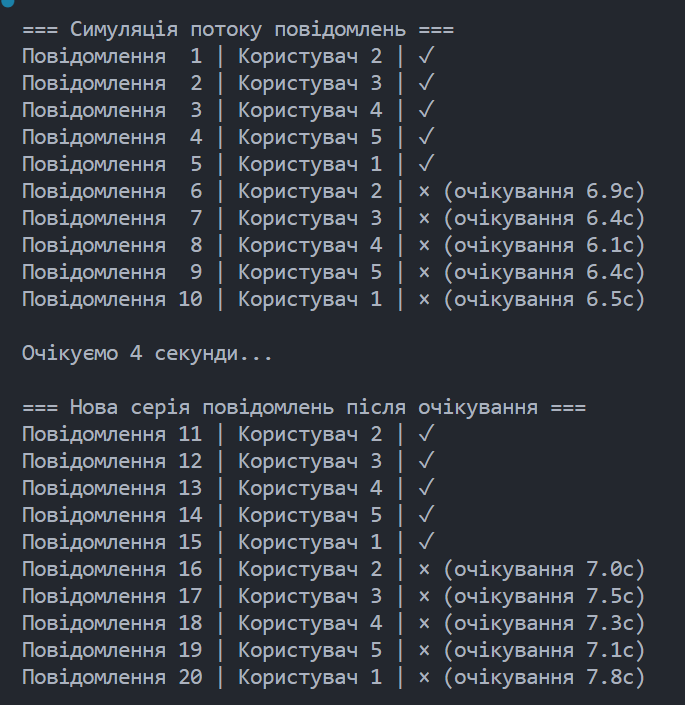
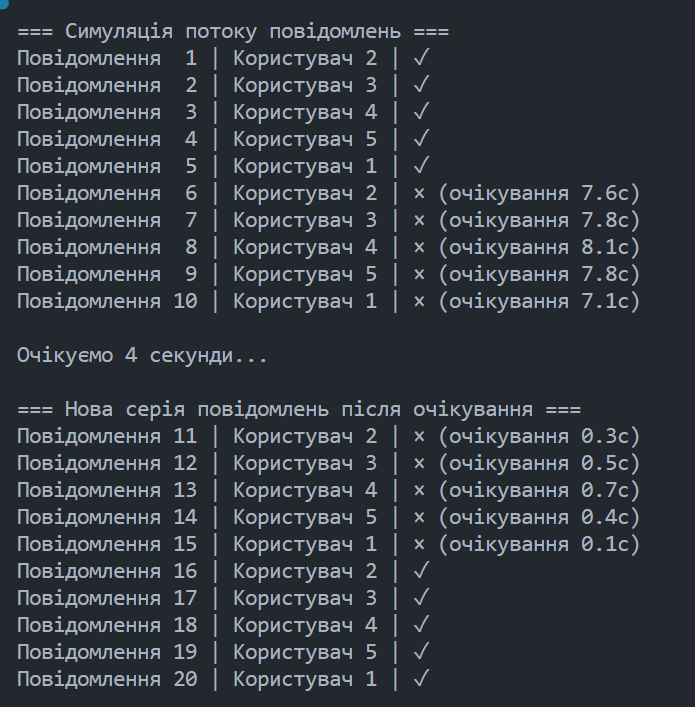
upd1

diff --git a/part1.py b/part1.py
@@ -7,57 +7,54 @@ class SlidingWindowRateLimiter:
     def __init__(self, window_size: int = 10, max_requests: int = 1):
         self.window_size = window_size
         self.max_requests = max_requests
-        self.user_messages: Dict[str, deque] = {}
-    
+        self.user_requests: Dict[str, deque] = {}
+
     def _cleanup_window(self, user_id: str, current_time: float) -> None:
-        """Видаляє старі записи з черги, які вийшли за межі вікна."""
-        if user_id in self.user_messages:
-            while self.user_messages[user_id] and self.user_messages[user_id][0] <= current_time - self.window_size:
-                self.user_messages[user_id].popleft()
+        """Видаляє застарілі запити з вікна"""
+        if user_id in self.user_requests:
+            while self.user_requests[user_id] and self.user_requests[user_id][0] <= current_time - self.window_size:
+                self.user_requests[user_id].popleft()
+
+            if not self.user_requests[user_id]:  # Якщо черга порожня, видаляємо користувача
+                del self.user_requests[user_id]
 
     def can_send_message(self, user_id: str) -> bool:
-        """Перевіряє, чи може користувач надіслати повідомлення."""
+        """Перевіряє, чи може користувач надіслати повідомлення"""
         current_time = time.time()
         self._cleanup_window(user_id, current_time)
-        return len(self.user_messages.get(user_id, [])) < self.max_requests
-    
+        return len(self.user_requests.get(user_id, [])) < self.max_requests
+
     def record_message(self, user_id: str) -> bool:
-        """Записує повідомлення користувача, якщо це дозволено."""
+        """Записує повідомлення користувача, якщо воно дозволене"""
         if self.can_send_message(user_id):
-            if user_id not in self.user_messages:
-                self.user_messages[user_id] = deque()
-            self.user_messages[user_id].append(time.time())
+            if user_id not in self.user_requests:
+                self.user_requests[user_id] = deque()
+            
+            self.user_requests[user_id].append(time.time())
             return True
         return False
-    
+
     def time_until_next_allowed(self, user_id: str) -> float:
-        """Розраховує час, що залишився до можливості відправити наступне повідомлення."""
-        current_time = time.time()
-        self._cleanup_window(user_id, current_time)
-        if user_id not in self.user_messages or not self.user_messages[user_id]:
+        """Обчислює час до можливості відправлення наступного повідомлення"""
+        if user_id not in self.user_requests or not self.user_requests[user_id]:
             return 0.0
-        return max(0.0, self.window_size - (current_time - self.user_messages[user_id][0]))
+
+        oldest_request_time = self.user_requests[user_id][0]
+        return max(0.0, self.window_size - (time.time() - oldest_request_time))
 
 # Демонстрація роботи
 
 def test_rate_limiter():
-    # Створюємо rate limiter: вікно 10 секунд, 1 повідомлення
     limiter = SlidingWindowRateLimiter(window_size=10, max_requests=1)
-
-    # Симулюємо потік повідомлень від користувачів (послідовні ID від 1 до 5)
     print("\n=== Симуляція потоку повідомлень ===")
     for message_id in range(1, 11):
-        user_id = str(message_id % 5 + 1)  # Користувачі з ID від 1 до 5
-
+        user_id = str(message_id % 5 + 1)
         result = limiter.record_message(user_id)
         wait_time = limiter.time_until_next_allowed(user_id)
-
         print(f"Повідомлення {message_id:2d} | Користувач {user_id} | "
               f"{'✓' if result else f'× (очікування {wait_time:.1f}с)'}")
-
         time.sleep(random.uniform(0.1, 1.0))
 
-    # Чекаємо, поки вікно очиститься
     print("\nОчікуємо 4 секунди...")
     time.sleep(4)
 
